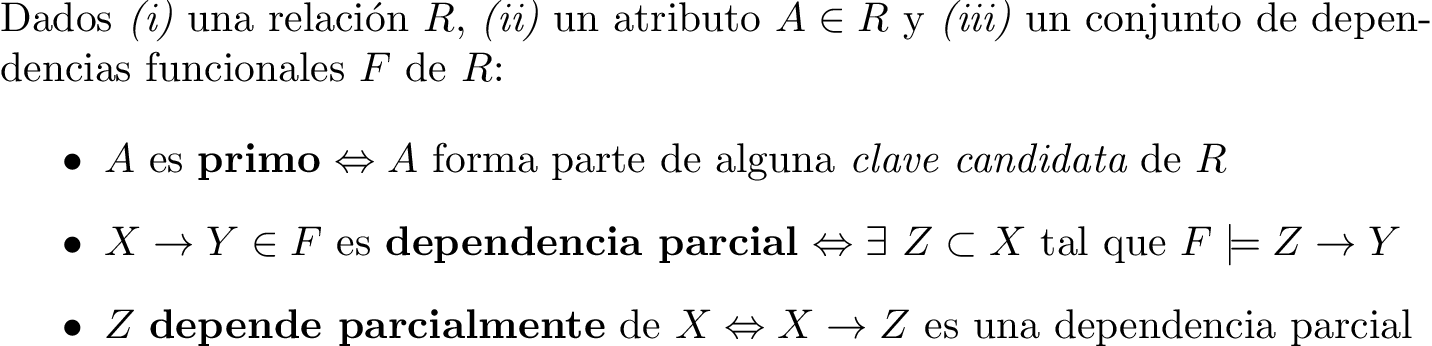
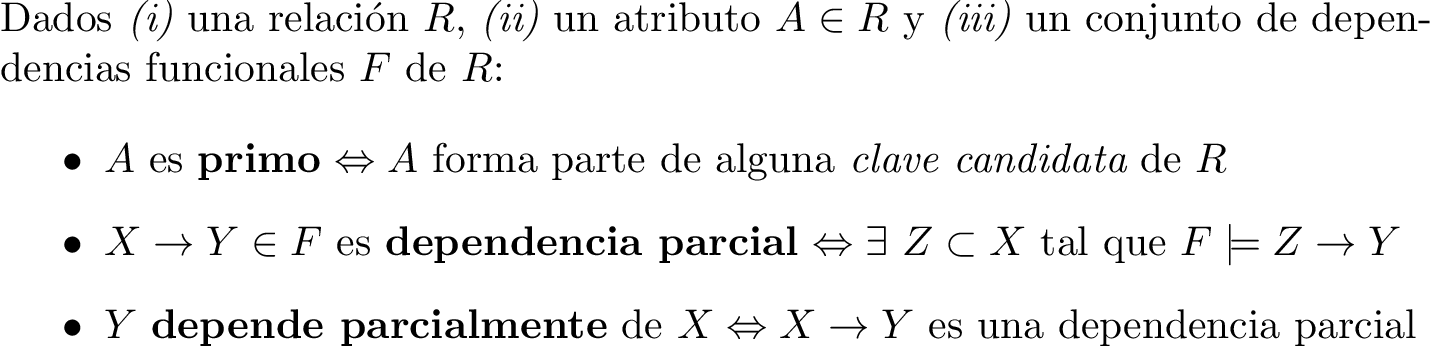
Fix 2NF

Changed region(s): [[0.0615, 0.896, 1.0, 1.0]]

diff --git a/docs/com-2/norm.html b/docs/com-2/norm.html
@@ -1,5 +1,5 @@
 <!DOCTYPE html>
-<!-- saved from url=(0033)http://localhost:3999/24.slide#29 -->
+<!-- saved from url=(0032)http://localhost:3999/24.slide#1 -->
 <html><head><meta http-equiv="Content-Type" content="text/html; charset=UTF-8">
     <title>Formas normales</title>
     
@@ -33,7 +33,7 @@
 
     <section class="slides layout-widescreen">
 
-      <article>
+      <article class="current">
         <h1>Formas normales</h1>
         <h3>Bases de Datos I</h3>
         
@@ -62,7 +62,7 @@
 
   
   
-      <article>
+      <article class="next">
       
         <h3>rondelli.github.io/db1/com-2/norm.html</h3>
         
@@ -76,7 +76,7 @@
   
   
   
-      <article>
+      <article class="far-next">
       
         <h2>Modelo relacional</h2>
       
@@ -85,7 +85,7 @@
   
   
   
-      <article>
+      <article class="">
       
         <h3>Modelo relacional</h3>
         
@@ -105,7 +105,7 @@
   
   
   
-      <article>
+      <article class="">
       
         <h3>Modelo relacional</h3>
         
@@ -131,7 +131,7 @@
   
   
   
-      <article>
+      <article class="">
       
         <h2>Primera forma normal</h2>
       
@@ -140,7 +140,7 @@
   
   
   
-      <article>
+      <article class="">
       
         <h3>Definición</h3>
         
@@ -171,7 +171,7 @@
   
   
   
-      <article>
+      <article class="">
       
         <h3>Definición</h3>
         
@@ -223,7 +223,7 @@
   
   
   
-      <article>
+      <article class="">
       
         <h3>Primera forma normal</h3>
         
@@ -243,7 +243,7 @@
   
   
   
-      <article>
+      <article class="">
       
         <h3>Primera forma normal</h3>
         
@@ -263,7 +263,7 @@
   
   
   
-      <article>
+      <article class="">
       
         <h3>Primera forma normal</h3>
         
@@ -283,7 +283,7 @@
   
   
   
-      <article>
+      <article class="">
       
         <h3>Primera forma normal</h3>
         
@@ -303,7 +303,7 @@
   
   
   
-      <article>
+      <article class="">
       
         <h3>Primera forma normal</h3>
         
@@ -323,7 +323,7 @@
   
   
   
-      <article>
+      <article class="">
       
         <h3>Primera forma normal</h3>
         
@@ -349,7 +349,7 @@
   
   
   
-      <article>
+      <article class="">
       
         <h2>Segunda forma normal</h2>
       
@@ -358,7 +358,7 @@
   
   
   
-      <article>
+      <article class="">
       
         <h3>Atributos primos y dependencias parciales</h3>
         
@@ -372,7 +372,7 @@
   
   
   
-      <article>
+      <article class="">
       
         <h3>Definición</h3>
         
@@ -388,13 +388,25 @@
   </p>
   
 
+  
+  <p>
+    <b>Definición equivalente</b>
+  </p>
+  
+
+  
+  <p>
+    Una relación <i>R</i> está en <b>Segunda forma normal</b> (2NF) si y solo si todo atributo no primo <i>A</i> es completamente dependiente de <i>todas</i> las claves de <i>R</i>.
+  </p>
+  
+
       
       <span class="pagenumber">17</span>
       </article>
   
   
   
-      <article>
+      <article class="">
       
         <h3>Segunda forma normal</h3>
         
@@ -408,7 +420,7 @@
   
   
   
-      <article>
+      <article class="">
       
         <h3>Segunda forma normal</h3>
         
@@ -494,7 +506,7 @@
   
   
   
-      <article class="">
+      <article>
       
         <h2>Tercera forma normal</h2>
       
@@ -503,7 +515,7 @@
   
   
   
-      <article class="">
+      <article>
       
         <h3>Definición</h3>
         
@@ -547,7 +559,7 @@
   
   
   
-      <article class="">
+      <article>
       
         <h3>Tercera forma normal</h3>
         
@@ -561,7 +573,7 @@
   
   
   
-      <article class="">
+      <article>
       
         <h2>Forma normal de Boyce–Codd</h2>
       
@@ -570,7 +582,7 @@
   
   
   
-      <article class="far-past">
+      <article>
       
         <h3>Definición</h3>
         
@@ -586,7 +598,7 @@
   
   
   
-      <article class="past">
+      <article>
       
         <h3>Forma normal de Boyce–Codd</h3>
         
@@ -606,7 +618,7 @@
   
   
   
-      <article class="current">
+      <article>
       
         <h3>Forma normal de Boyce–Codd</h3>
         
@@ -626,7 +638,7 @@
   
   
   
-      <article class="next">
+      <article>
       
         <h3>Pseudo–algoritmo para descomponer en BCNF</h3>
         
@@ -660,7 +672,7 @@
   
   
   
-      <article class="far-next">
+      <article>
       
         <h3>Dudas, preguntas, consultas</h3>
         
@@ -689,7 +701,7 @@
   
   
 
-      <article class="">
+      <article>
         <h3>Thank you</h3>
         
           <div class="presenter">

diff --git a/present/com-2/tex/fn-sfn-atributos-primos.tex b/present/com-2/tex/fn-sfn-atributos-primos.tex
@@ -9,6 +9,6 @@ Dados {\em (i)} una relaci\'on $R$, {\em (ii)} un atributo $A\in R$ y {\em (iii)
 \begin{itemize}
 \item $A$ es \textbf{primo} $\Leftrightarrow A$ forma parte de alguna {\em clave candidata} de $R$
 \item $X \rightarrow Y\in F$ es \textbf{dependencia parcial} $\Leftrightarrow \exists \ Z \subset X$ tal que $F \models Z\rightarrow Y$
-\item $Z$ \textbf{depende parcialmente} de $X \Leftrightarrow X \rightarrow Z$ es una dependencia parcial
+\item $Y$ \textbf{depende parcialmente} de $X \Leftrightarrow X \rightarrow Y$ es una dependencia parcial
 \end{itemize}
 \end{document}
